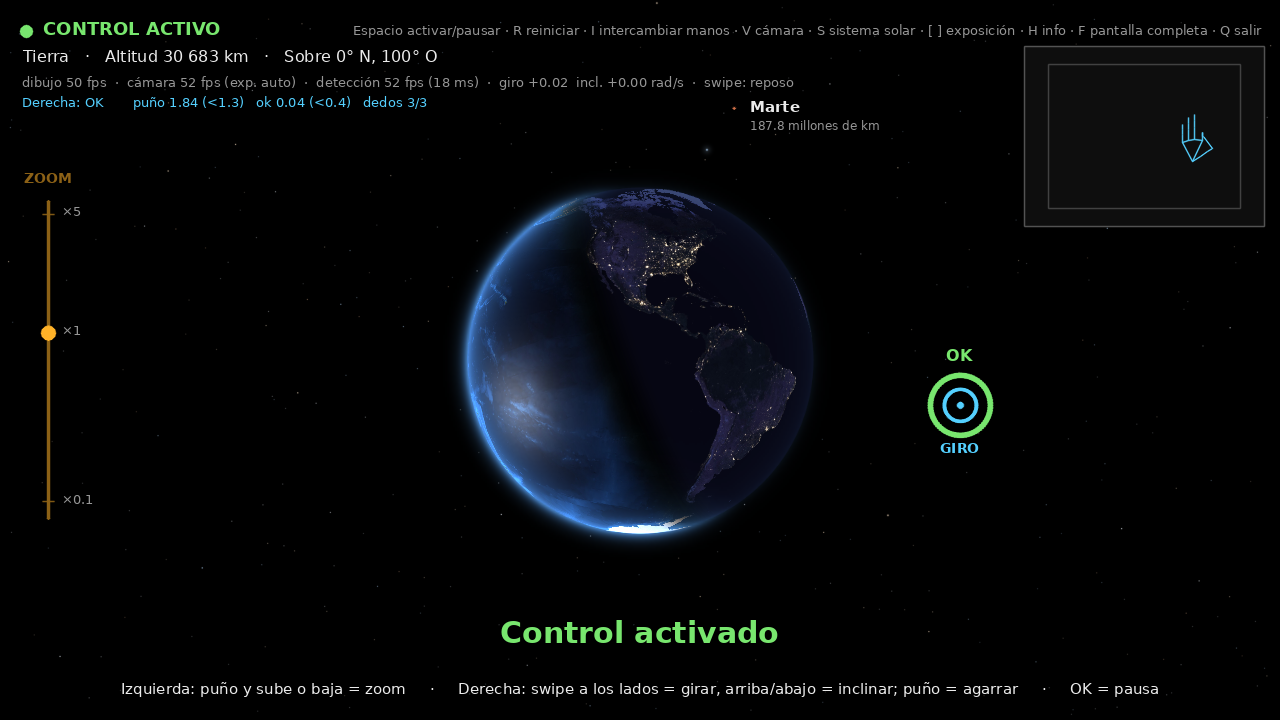
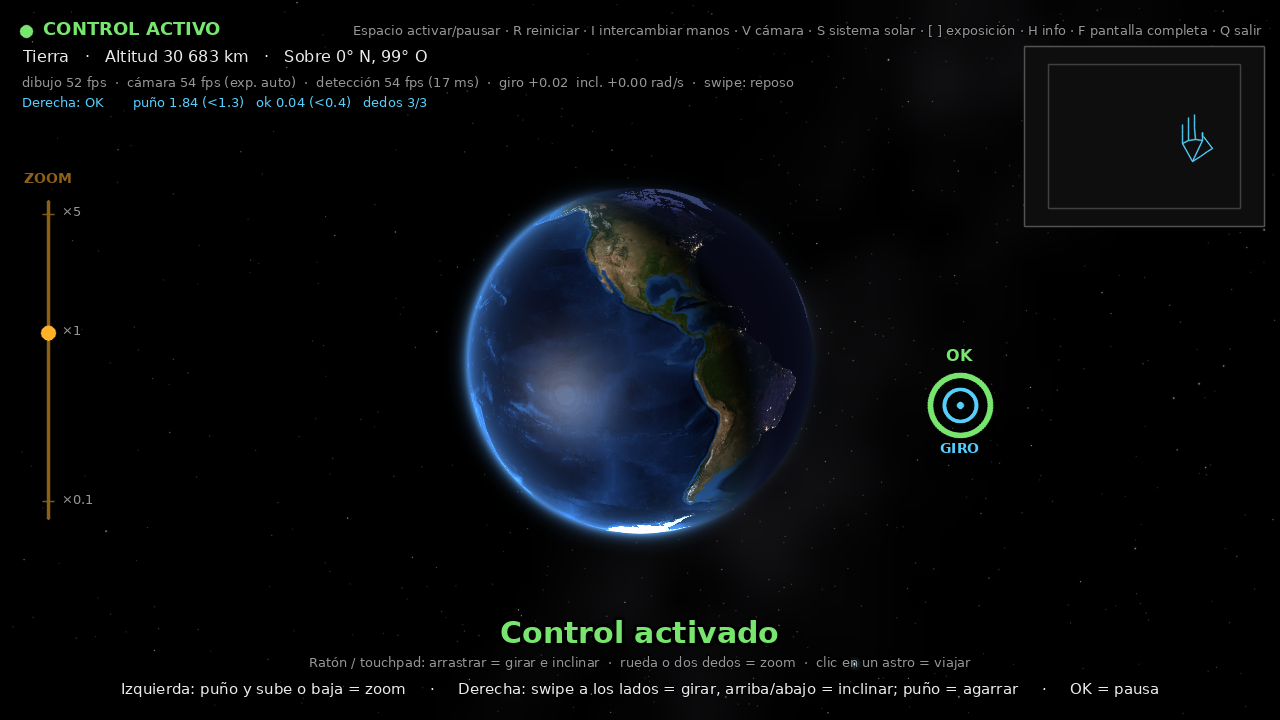
Arreglo de crasheo, controlar con mouse

diff --git a/main.py b/main.py
@@ -267,6 +267,8 @@ class Aplicacion:
     def __init__(self, captura, detector, ancho=C.ANCHO, alto=C.ALTO):
         self.captura, self.detector = captura, detector
         self.escena = Escena(ancho, alto)
+        self._raton = {"x": -1.0, "y": -1.0, "abajo": False, "x0": 0.0, "y0": 0.0, "mov": 0.0, "t": 0.0}
+        self._dim = (ancho, alto)
         self.seguidor = SeguidorManos()
         self.control = Control(ancho, alto)
         self.deteccion = Deteccion(captura, detector, self.seguidor, self.control)
@@ -308,6 +310,12 @@ class Aplicacion:
         seleccion = self._elegir_astro(est, t)
         if self.viaje is not None and self.viaje.terminado(t):
             self._llegar()
+        if self.suave.log_escala is None:                 # cambio de vista dentro de este cuadro: toma el estado nuevo
+            est = self.control.instantanea(t)
+            self.suave.paso(est.log_escala, est.giro, est.inclinacion, dt)
+        r = self._raton
+        bajo = None if (r["abajo"] or r["x"] < 0 or self.viaje is not None) else self._astro_bajo(r["x"], r["y"])
+        self.escena.resaltado = (self.escena.astros["objetivos"][bajo] + (bajo,)) if bajo else None
         return self.escena.componer(self.suave.log_escala, self.suave.giro, est, info,
                                     self.captura.frame, self.ver_camara, self.ver_info, t,
                                     self.suave.inclinacion, foco=self.foco, viaje=self.viaje,
@@ -330,6 +338,64 @@ class Aplicacion:
             else:
                 self._viajar(elegido, t)
         return vista
+
+    # ------------------------------------------------------------------
+    # Raton / touchpad: arrastrar = girar, rueda = zoom, clic en un astro = viajar
+    # ------------------------------------------------------------------
+    def _astro_bajo(self, x, y):
+        """Astro bajo el cursor (el mas cercano), o None. Los pequenos tienen un area minima."""
+        mejor, dmin = None, 1e9
+        for nombre, (ox, oy, r) in self.escena.astros.get("objetivos", {}).items():
+            d = math.hypot(x - ox, y - oy)
+            if d <= max(r, C.SELECCION_RADIO_MIN) + 6.0 and d < dmin:
+                mejor, dmin = nombre, d
+        return mejor
+
+    def raton(self, evento, x, y, flags, param=None):
+        """Callback de OpenCV (corre en el hilo principal, dentro de waitKey)."""
+        r = self._raton
+        r["x"], r["y"] = float(x), float(y)
+        if evento == cv2.EVENT_MOUSEWHEEL:
+            try:
+                delta = cv2.getMouseWheelDelta(flags)
+            except Exception:
+                delta = 1 if flags > 0 else -1
+            if self.viaje is None and delta:
+                self.control.zoom_raton(1.0 if delta > 0 else -1.0)
+        elif evento == cv2.EVENT_LBUTTONDOWN and self.viaje is None:
+            r.update(abajo=True, x0=float(x), y0=float(y), mov=0.0, t=time.perf_counter())
+            self.control.raton_agarrar()
+        elif evento == cv2.EVENT_MOUSEMOVE and r["abajo"] and (flags & cv2.EVENT_FLAG_LBUTTON):
+            t = time.perf_counter()
+            dx, dy = x - r.get("px", r["x0"]), y - r.get("py", r["y0"])
+            r["mov"] = max(r["mov"], math.hypot(x - r["x0"], y - r["y0"]))
+            if r["mov"] > C.RATON_CLIC_PX:                 # ya no es un clic: es un arrastre
+                self.control.raton_arrastrar(dx, dy, t - r["t"])
+            r["t"] = t
+        elif evento == cv2.EVENT_LBUTTONUP and r["abajo"]:
+            r["abajo"] = False
+            quieto = time.perf_counter() - r["t"] > 0.12
+            self.control.raton_soltar(quieto or r["mov"] <= C.RATON_CLIC_PX)
+            if r["mov"] <= C.RATON_CLIC_PX:
+                self.clic(x, y)
+        r["px"], r["py"] = x, y
+        if evento == cv2.EVENT_LBUTTONDOWN:
+            r["px"], r["py"] = x, y
+
+    def clic(self, x, y):
+        """Clic sobre un astro: viajar a el. En la vista del sistema, sobre el astro actual = volver."""
+        if self.viaje is not None:
+            return
+        elegido = self._astro_bajo(x, y)
+        if elegido is None:
+            return
+        t = time.perf_counter()
+        if self.modo == "sistema" and elegido == self.foco:
+            self.alternar_sistema(t)
+        elif self.modo == "astro" and elegido == self.foco:
+            return
+        else:
+            self._viajar(elegido, t)
 
     def alternar_sistema(self, t=None):
         """Entra o sale de la vista del Sistema Solar completo (tecla S)."""
@@ -359,7 +425,7 @@ class Aplicacion:
             esc, giro, incl = self._guardado or (0.0, self.suave.giro, self.suave.inclinacion)
             self.modo = "astro"
             self.control.fijar_escala(0.0)
-            self.suave.reiniciar()
+            self.suave.log_escala, self.suave.giro, self.suave.inclinacion = 0.0, giro, incl
             esc_llegada = 0.0
         else:
             esc, giro, incl = self.suave.log_escala, self.suave.giro, self.suave.inclinacion
@@ -410,6 +476,7 @@ class Aplicacion:
     def correr(self, pantalla_completa=False):
         cv2.namedWindow(TITULO, cv2.WINDOW_NORMAL)
         cv2.resizeWindow(TITULO, C.ANCHO, C.ALTO)
+        cv2.setMouseCallback(TITULO, self.raton)
         completa = pantalla_completa
         if completa:
             cv2.setWindowProperty(TITULO, cv2.WND_PROP_FULLSCREEN, cv2.WINDOW_FULLSCREEN)

diff --git a/pruebas/test_proyecto.py b/pruebas/test_proyecto.py
@@ -689,6 +689,95 @@ def test_cambio_de_vista_en_la_aplicacion():
     assert app.foco == "tierra" and app.modo == "astro"
 
 
+def test_raton_control():
+    """Raton/touchpad: rueda = zoom logaritmico, arrastrar = la superficie sigue al cursor, inercia al soltar."""
+    ctl = Control()
+    e0 = ctl.log_escala
+    ctl.zoom_raton(+3)
+    assert abs(ctl.log_escala - e0 - 3 * C.RATON_ZOOM_PASO) < 1e-9
+    ctl.zoom_raton(-100)
+    assert abs(ctl.log_escala - math.log(C.ESCALA_MIN)) < 1e-9          # tope
+    ctl.zoom_raton(+100)
+    assert abs(ctl.log_escala - math.log(C.ESCALA_MAX)) < 1e-9
+    ctl = Control()
+    g0, r = ctl.giro, ctl._radio_giro()
+    ctl.raton_agarrar()
+    ctl.raton_arrastrar(60.0, -30.0, 1 / 60)                              # cursor a la derecha y arriba
+    assert abs(ctl.giro - g0 - 60.0 / r) < 1e-9                          # la superficie sigue al cursor (como el puno)
+    assert abs(ctl.inclinacion - 30.0 / r) < 1e-9
+    ctl.avanzar(1.0)
+    ctl.avanzar(1.5)
+    assert abs(ctl.giro - g0 - 60.0 / r) < 1e-9, "arrastrando no hay inercia encima"
+    ctl.raton_soltar()
+    ctl.avanzar(1.6)
+    assert ctl.omega > 0.1 and ctl.giro > g0 + 60.0 / r                  # conserva el impulso
+    ctl2 = Control()
+    ctl2.raton_agarrar()
+    ctl2.raton_arrastrar(50, 0, 1 / 60)
+    ctl2.raton_soltar(quieto=True)
+    assert ctl2.omega == 0.0                                              # si estaba quieto, se queda
+    ctl2.raton_agarrar()
+    for _ in range(30):
+        ctl2.raton_arrastrar(0, -400, 1 / 60)
+    assert abs(ctl2.inclinacion - math.radians(C.INCLINACION_MAX)) < 1e-9  # tope en el polo
+    # funciona aunque el control por manos este en pausa
+    assert not ctl2.activo
+
+
+def test_raton_en_la_aplicacion():
+    """Clic sobre un astro viaja a el (tambien desde la vista del sistema), rueda = zoom, y un cambio de vista
+    ocurrido DENTRO de paso_render ya no deja el suavizado vacio (era el crash del HUD)."""
+    import cv2
+    from main import Aplicacion, Captura
+    app = Aplicacion(Captura(FuenteFalsa().leer), DetectorGuion())
+    time.sleep(1.0)
+    app.paso_render()
+    app.alternar_sistema()
+    app.paso_render()
+    objetivos = app.escena.astros["objetivos"]
+    xm, ym, _ = objetivos["marte"]
+    # arrastrar gira la vista; la rueda cambia la escala (px por UA)
+    # OpenCV llama al callback con 5 argumentos (evento, x, y, flags, param)
+    app.raton(cv2.EVENT_LBUTTONDOWN, 600, 300, 0, None)
+    g0 = app.control.giro
+    app.raton(cv2.EVENT_MOUSEMOVE, 680, 300, cv2.EVENT_FLAG_LBUTTON)
+    app.raton(cv2.EVENT_LBUTTONUP, 680, 300, 0)
+    assert abs(app.control.giro - g0) > 0.1 and app.viaje is None
+    e0 = app.control.log_escala
+    app.raton(cv2.EVENT_MOUSEWHEEL, 640, 360, 120 << 16)
+    assert app.control.log_escala > e0
+    app.paso_render()
+    xm, ym, _ = app.escena.astros["objetivos"]["marte"]
+    app.paso_render()
+    app.raton(cv2.EVENT_MOUSEMOVE, xm, ym, 0)
+    app.paso_render()
+    assert app.escena.resaltado is not None and app.escena.resaltado[3] == "marte"
+    xm, ym, _ = app.escena.astros["objetivos"]["marte"]
+    app.raton(cv2.EVENT_LBUTTONDOWN, xm, ym, 0)
+    app.raton(cv2.EVENT_LBUTTONUP, xm, ym, 0)                            # clic sobre Marte
+    assert app.viaje is not None and app.viaje.nombre == "marte" and app.modo == "astro"
+    app.paso_render()
+    # regresion: viajar desde la vista del sistema DENTRO de paso_render (lo hace la palma sobre un astro)
+    app2 = Aplicacion(Captura(FuenteFalsa().leer), DetectorGuion())
+    app2.paso_render()
+    app2.alternar_sistema()
+    app2.paso_render()
+    app2._elegir_astro = lambda est, t: (app2._viajar("marte", t), None)[1]
+    app2.paso_render()
+    assert app2.suave.log_escala is not None and app2.viaje is not None
+    app2._elegir_astro = lambda est, t: (app2.alternar_sistema(t), None)[1]    # y salir con la palma sobre el astro actual
+    app2.viaje = None
+    app2.modo = "sistema"
+    app2._guardado = (0.0, 1.0, 0.0)
+    app2.paso_render()
+    assert app2.modo == "astro" and app2.suave.log_escala is not None
+    # clic en el vacio no hace nada
+    app.viaje = None
+    app.modo = "astro"
+    app.clic(5, 5)
+    assert app.viaje is None
+
+
 def test_render():
     import cv2
     from universo.control import Estado, ManoVista

diff --git a/universo/control.py b/universo/control.py
@@ -62,6 +62,7 @@ class Control:
         self.omega = 0.0
         self.inclinacion = 0.0             # rad; positivo = la superficie de enfrente sube (se ve el sur)
         self.omega_v = 0.0                 # rad/s de la inclinacion
+        self.raton_agarrado = False        # arrastrando con el raton: la inercia espera
         self.zoom_mano = None
         self._y_prev = None
         self.giro_mano = None
@@ -100,6 +101,42 @@ class Control:
         with self.lock:
             self._soltar(self._t_det or 0.0)
             self.log_escala = float(np.clip(log_escala, math.log(C.ESCALA_MIN), math.log(C.ESCALA_MAX)))
+
+    # ------------------------------------------------------------------
+    # Raton / touchpad (lo llama el hilo de dibujo)
+    # ------------------------------------------------------------------
+    def zoom_raton(self, pasos):
+        """Rueda del raton: pasos > 0 acerca, < 0 aleja (zoom logaritmico, igual que con la mano)."""
+        with self.lock:
+            self.log_escala = float(np.clip(self.log_escala + pasos * C.RATON_ZOOM_PASO,
+                                            math.log(C.ESCALA_MIN), math.log(C.ESCALA_MAX)))
+
+    def raton_agarrar(self):
+        """Empieza un arrastre: detiene el giro (como atrapar el globo)."""
+        with self.lock:
+            self.raton_agarrado = True
+            self.omega = self.omega_v = 0.0
+
+    def raton_arrastrar(self, dx, dy, dt):
+        """La superficie sigue al cursor: dx, dy en pixeles del lienzo; dt en segundos desde el ultimo movimiento."""
+        with self.lock:
+            r = self._radio_giro() / max(C.RATON_GANANCIA, 1e-3)
+            dg, di = dx / r, -dy / r                       # cursor arriba = la superficie sube = se ve el sur
+            self.giro += dg
+            lim = math.radians(C.INCLINACION_MAX)
+            nueva = float(np.clip(self.inclinacion + di, -lim, lim))
+            di = nueva - self.inclinacion
+            self.inclinacion = nueva
+            if dt > 1e-4:                                  # velocidad suavizada para la inercia al soltar
+                self.omega = 0.6 * self.omega + 0.4 * float(np.clip(dg / dt, -C.OMEGA_MAX, C.OMEGA_MAX))
+                self.omega_v = 0.6 * self.omega_v + 0.4 * float(np.clip(di / dt, -C.OMEGA_V_MAX, C.OMEGA_V_MAX))
+
+    def raton_soltar(self, quieto=False):
+        """Fin del arrastre. Con inercia conserva el impulso; si el cursor llevaba rato quieto, se detiene."""
+        with self.lock:
+            self.raton_agarrado = False
+            if quieto or not C.RATON_INERCIA:
+                self.omega = self.omega_v = 0.0
 
     def avisar(self, texto):
         """Aviso en pantalla desde otro hilo (p. ej. al cambiar la exposicion con el teclado)."""
@@ -330,7 +367,7 @@ class Control:
         with self.lock:
             dt = 0.0 if self._t_render is None else min(max(t - self._t_render, 0.0), 0.1)
             self._t_render = t
-            if self.giro_mano is not None:
+            if self.giro_mano is not None or self.raton_agarrado:
                 return
             self.giro += self.omega * dt
             self._inclinar(self.omega_v * dt)

diff --git a/universo/render.py b/universo/render.py
@@ -160,6 +160,7 @@ class Escena:
         self.astros = {}
         self.vista_sistema = VistaSistema(self)
         self._modo, self._fundido = "astro", None
+        self.resaltado = None                              # (x, y, radio, nombre) del astro bajo el cursor del raton
         threading.Thread(target=self._precalentar, daemon=True, name="precalentar").start()
 
     def _precalentar(self):
@@ -188,6 +189,13 @@ class Escena:
             self._espacio(log_escala, giro, inclinacion, fecha or fecha_actual(), foco, viaje, t)
         if seleccion is not None:
             self._seleccion(seleccion)
+        if self.resaltado is not None and modo == self._modo:
+            x, y, r, nombre = self.resaltado
+            cv2.circle(self.buf, _p(x, y), int((max(r, 12.0) + 8) * 16), (255, 255, 255), 1, cv2.LINE_AA, 4)
+            accion = "volver" if (modo == "sistema" and nombre == foco) else "ir a"
+            self.texto.dibujar(self.buf, f"clic: {accion} {NOMBRES.get(nombre, nombre)}" if accion == "ir a"
+                               else f"clic: volver a {NOMBRES.get(nombre, nombre)}",
+                               x, y + max(r, 12.0) + 16, 13, COL_TEXTO, False, "c")
         if estado.activo:
             self._barra_zoom(log_escala, estado.zoom_agarrado)
         self._manos(estado)
@@ -444,6 +452,8 @@ class Escena:
         else:
             msg = "Haz el signo de OK con cualquier mano para activar el control"
         T.dibujar(b, msg, self.w / 2, self.h - 40, 17 if not estado.activo else 15, COL_TEXTO, ancla="c")
+        T.dibujar(b, "Ratón / touchpad: arrastrar = girar e inclinar  ·  rueda o dos dedos = zoom  ·  clic en un astro = viajar",
+                  self.w / 2, self.h - 66, 13, COL_TENUE, ancla="c")
 
     def _avisos(self, estado, t):
         for i, (texto, t0) in enumerate(estado.avisos[-1:]):

diff --git a/universo/config.py b/universo/config.py
@@ -87,6 +87,16 @@ VIAJE_ARCO = 155.0                 # grados que rodeas el destino (el origen que
 VIAJE_GIRO = 0.25                  # fraccion del viaje para voltear hacia el destino            # nombre y distancia junto al Sol y la Luna
 
 # ----------------------------------------------------------------------
+# Raton / touchpad (alternativa a las manos; siempre activo, aunque el control este en pausa)
+#   arrastrar con el boton izquierdo = girar e inclinar | rueda (o dos dedos en el pad) = zoom
+#   clic sobre un astro = viajar a el (en la vista del sistema, sobre el astro actual = volver)
+# ----------------------------------------------------------------------
+RATON_ZOOM_PASO = 0.18             # cambio del logaritmo del zoom por cada "muesca" de la rueda
+RATON_CLIC_PX = 6.0                # movimiento maximo (px) para que un arrastre cuente como clic
+RATON_GANANCIA = 1.0               # 1 = la superficie sigue al cursor; >1 = gira mas rapido
+RATON_INERCIA = True               # al soltar el arrastre conserva el impulso (como el puno)
+
+# ----------------------------------------------------------------------
 # Camara
 # ----------------------------------------------------------------------
 CAM_INDICE = 0

diff --git a/CLAUDE.md b/CLAUDE.md
@@ -7,7 +7,7 @@ Proyecto de Interfaces Avanzadas (UV, 5.º semestre). Es un explorador educativo
 - `requirements.txt`: opencv-python (5.1), mediapipe (1.2.3), numpy (2.5), pillow (13).
 - Modelo `modelos/gesture_recognizer.task`. Se usan sus landmarks 2D/3D y la etiqueta de mano; las poses se calculan con geometría propia.
 - Ejecutar: `.venv\Scripts\python.exe main.py` (opciones: `--camara 1 --dshow --pantalla-completa`)
-- Pruebas sin cámara: `.venv\Scripts\python.exe pruebas\test_proyecto.py` (34 pruebas; deben pasar siempre. `test_integracion_hilos` exige >40 FPS y puede fallar si la laptop esta en ahorro de energia).
+- Pruebas sin cámara: `.venv\Scripts\python.exe pruebas\test_proyecto.py` (36 pruebas; deben pasar siempre. `test_integracion_hilos` exige >40 FPS y puede fallar si la laptop esta en ahorro de energia).
 
 ## Estructura de carpetas
 - `main.py` (entrada) · `requirements.txt` · `CLAUDE.md` (debe estar en la raíz: Claude Code solo lo lee ahí).
@@ -48,6 +48,9 @@ Proyecto de Interfaces Avanzadas (UV, 5.º semestre). Es un explorador educativo
 - El **Sol** y **Marte** usan también `Tierra`: el Sol con `emisivo=True` (brilla solo, oscurecimiento al limbo, halo cálido, `BRILLO_SOL`; su resplandor es un sprite de `cielo.py` dibujado detrás del disco); Marte sin atmósfera ni reflejo (`oceanos=False`). Las listas `TEXTURA_MARTE`/`TEXTURA_SOL` en `config.py` usan el primer archivo que exista; `DESFASE_TEXTURA_MARTE` corrige imágenes con la longitud 0 fuera del centro.
 - `universo/render.py`: el cielo y luego TODOS los astros (Sol incluido) de lejos a cerca, por profundidad; los astros muy lejanos son un punto; etiquetas con nombre y distancia desde el astro en foco; HUD con altitud de la cámara; cursores (naranja = zoom, azul = giro), barra de zoom, estado, avisos, info de depuración (tecla H) y miniatura de cámara. Textos con Pillow en caché, para que salgan los acentos.
 - `pruebas/simulacion.py`: manos 3D sintéticas en formato MediaPipe. `pruebas/test_proyecto.py`: pruebas unitarias e integración con hilos.
+
+## Ratón / touchpad (alternativa a las manos, siempre activo)
+- `Aplicacion.raton` (callback de OpenCV) + `Control.zoom_raton/raton_agarrar/raton_arrastrar/raton_soltar`: arrastrar con el botón izquierdo = girar e inclinar (la superficie sigue al cursor, con inercia al soltar), rueda o dos dedos del pad = zoom logarítmico, clic sobre un astro = viajar a él (en la vista del sistema, sobre el astro actual = volver). Al pasar el cursor sobre un astro se resalta con un anillo. Parámetros `RATON_*` en `config.py`. Funciona con el control de manos en pausa o activo.
 
 ## Teclas
 Espacio activar/pausar · **S sistema solar (entrar/salir)** · R reiniciar · I intercambiar manos · [ ] exposición (E = automática) · V cámara · H info · F pantalla completa · Q/Esc salir.
